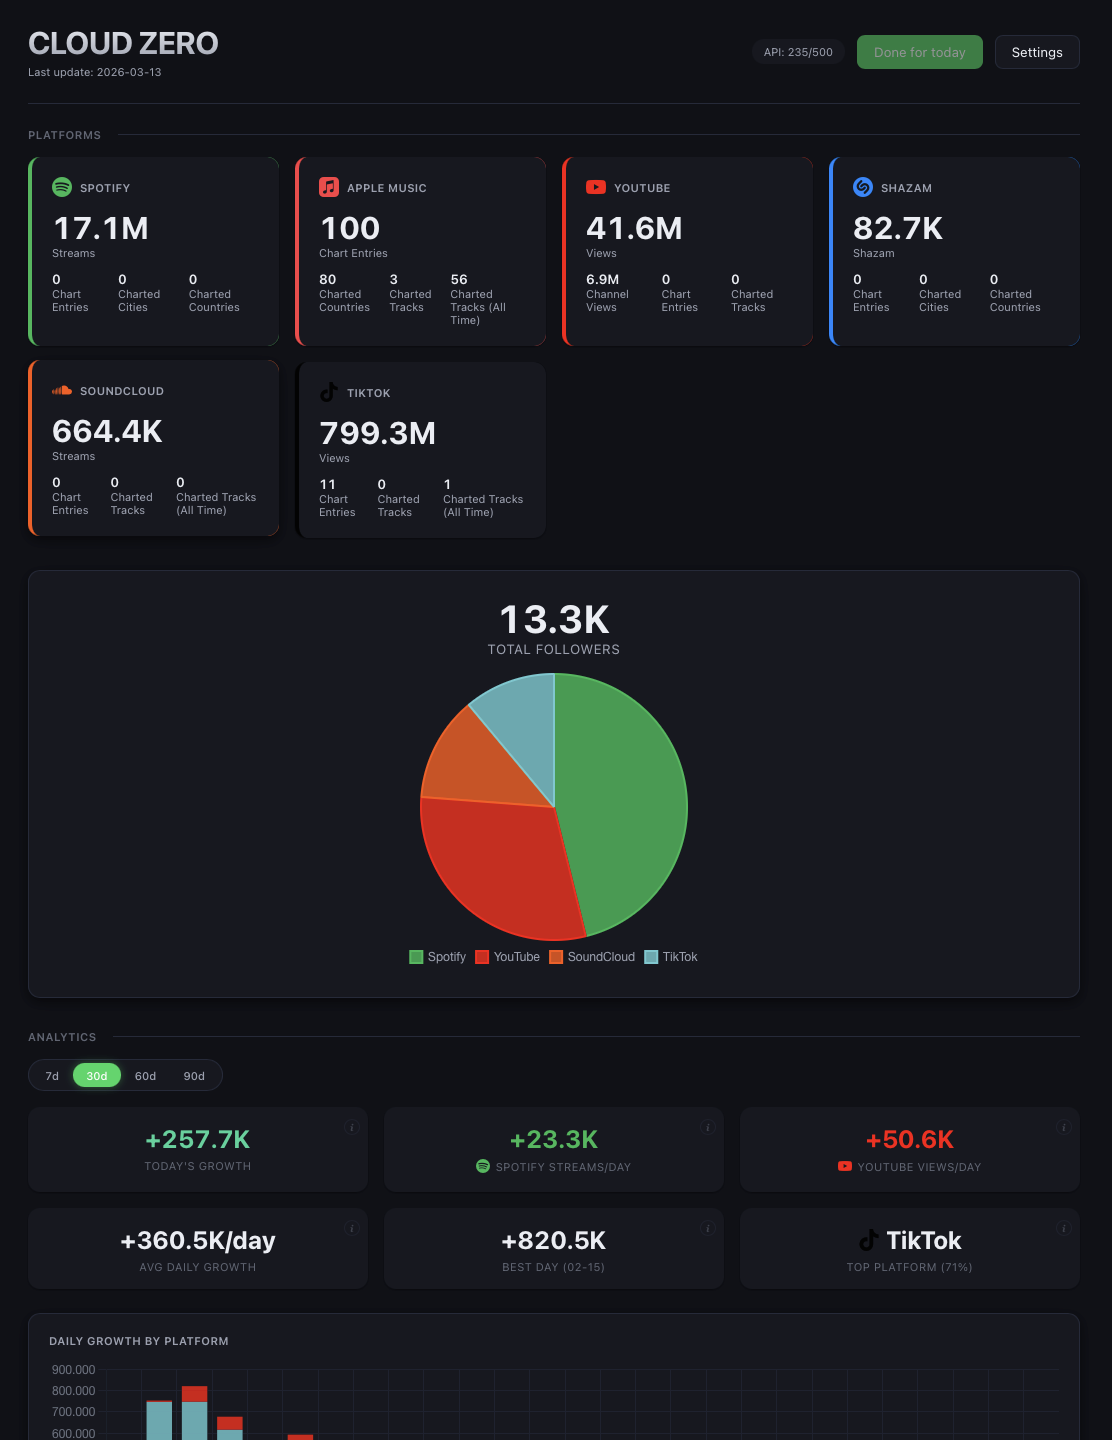
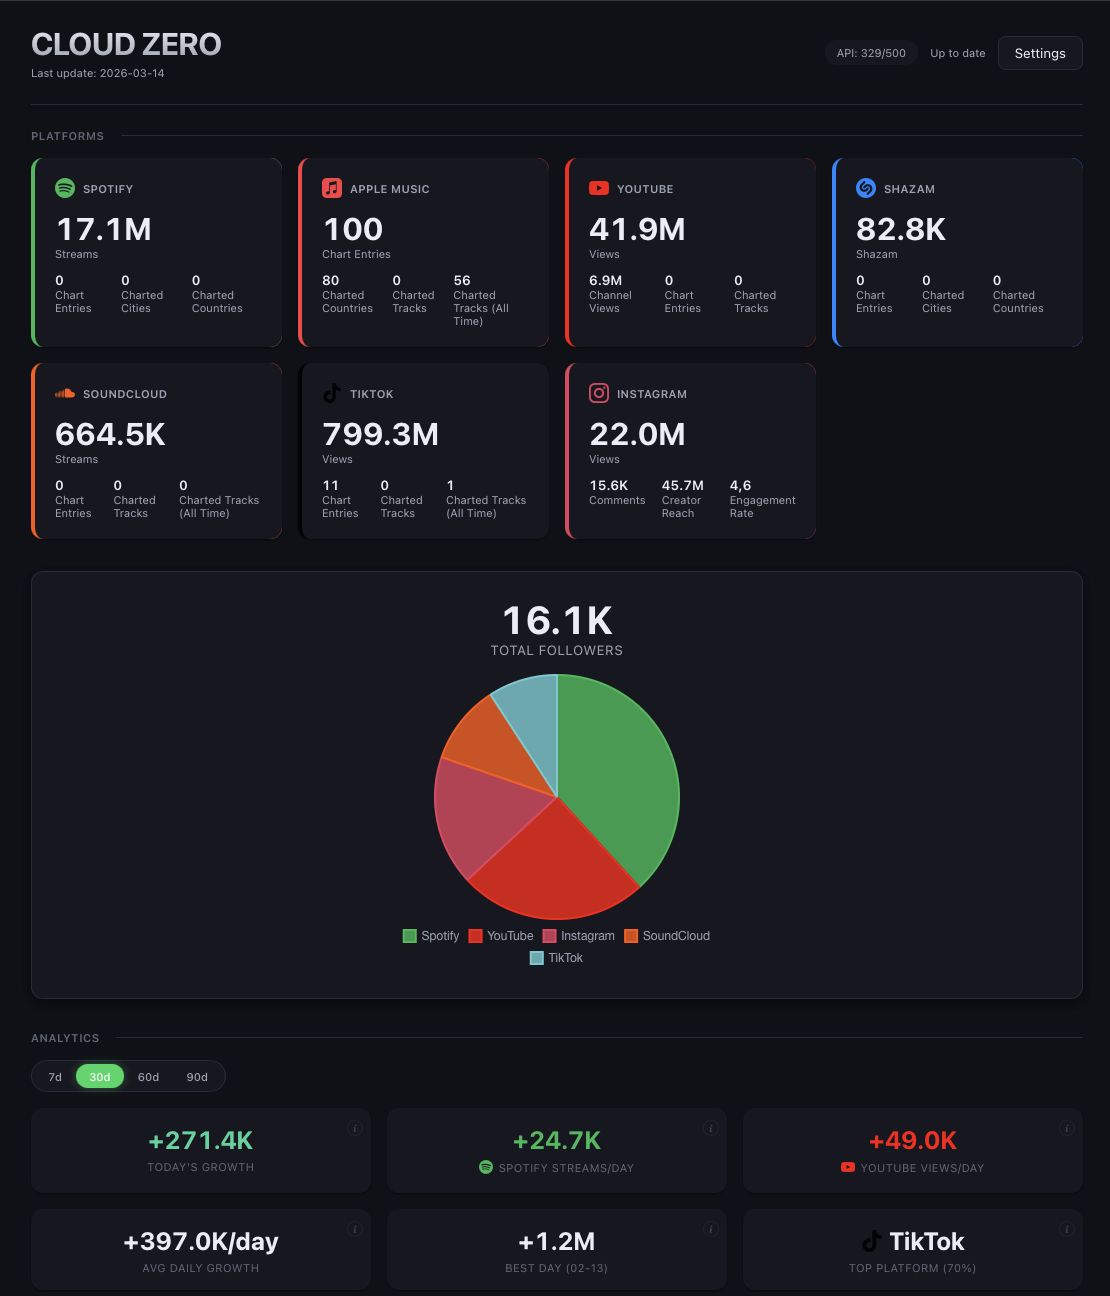
Update README for 9 platforms and refresh screenshots

diff --git a/README.md b/README.md
@@ -1,6 +1,6 @@
 # Streaming Stats
 
-A cross-platform app for desktop and mobile that tracks streaming stats for music artists across 8 platforms using the [Songstats API](https://rapidapi.com/songstats-app-songstats-app-default/api/songstats). Built with Tauri 2 (Rust + React). Runs on macOS, Windows, iOS, and Android.
+A cross-platform app for desktop and mobile that tracks streaming stats for music artists across 9 platforms using the [Songstats API](https://rapidapi.com/songstats-app-songstats-app-default/api/songstats). Built with Tauri 2 (Rust + React). Runs on macOS, Windows, iOS, and Android.
 
 <p align="center">
   <img src="docs/screenshots/dashboard-1.png" alt="Dashboard" width="720" />
@@ -29,7 +29,7 @@ A cross-platform app for desktop and mobile that tracks streaming stats for musi
 
 ## Supported Music Platforms
 
-Spotify, Apple Music, YouTube, TikTok, Deezer, Amazon Music, Shazam, SoundCloud
+Spotify, Apple Music, YouTube, TikTok, Deezer, Amazon Music, Shazam, SoundCloud, Instagram
 
 ## Screenshots
 
@@ -76,7 +76,7 @@ No data is sent anywhere except the Songstats API calls to fetch stats.
 
 ### API Usage
 
-The app uses the Songstats API via RapidAPI. The **BASIC plan** allows 500 requests/month. The daily update uses ~15 API calls (8 platform stats + 6 top tracks + 1 top curators). Per-track stats are refreshed weekly (~10 calls). Once-a-day updates keep monthly usage under 500 calls. Top tracks and curators are stored in the local DB during the daily fetch, so detail views read directly from the database without making API calls. A backfill uses ~8 calls. The dashboard shows your current monthly usage.
+The app uses the Songstats API via RapidAPI. The **BASIC plan** allows 500 requests/month. The daily update uses ~16 API calls (9 platform stats + 6 top tracks + 1 top curators). Per-track stats are refreshed weekly (~10 calls). Once-a-day updates keep monthly usage under 500 calls. Top tracks and curators are stored in the local DB during the daily fetch, so detail views read directly from the database without making API calls. A backfill uses ~9 calls. The dashboard shows your current monthly usage.
 
 A 1.2 second delay is added between platform requests to stay within the per-second rate limit.
 
